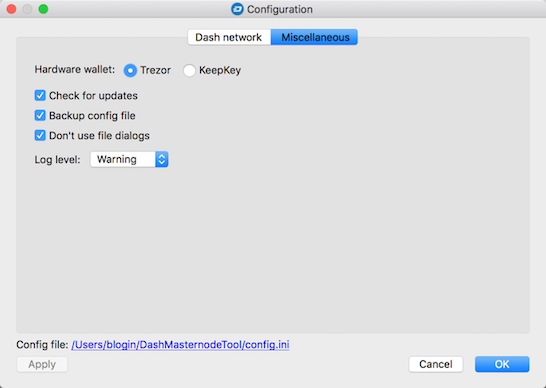
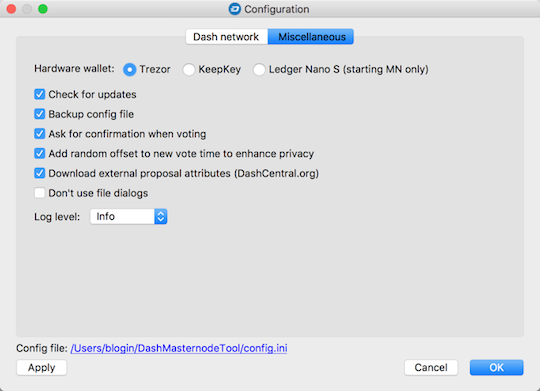
Slight correction of the doc

diff --git a/README.md b/README.md
@@ -42,7 +42,7 @@ The main purpose of the application is to give masternode owners (MNOs) the abil
 #### Supported hardware wallets
 - [x] Trezor
 - [x] KeepKey
-- [ ] Ledger Nano S (in the future)
+- [x] Ledger Nano S (now only starting masternode feature)
 
 Most ot the application features are accessible from the main program window:  
 ![Main window](doc/img/dmt-main-window.png)
@@ -52,7 +52,7 @@ Most ot the application features are accessible from the main program window:
 ### Setting up the hardware wallet type
  * Click the `Configure` button.
  * In the configuration dialog that will open, select the `Miscellaneous` tab.
- * Depending on the type of your hard ware wallet, select the `Trezor` or `Keepkey` option.      
+ * Depending on the type of your hard ware wallet, select the `Trezor`, `Keepkey` or `Ledger Nano S` option.      
  ![1](doc/img/dmt-config-dlg-misc.png)
 
 ### Connection setup
